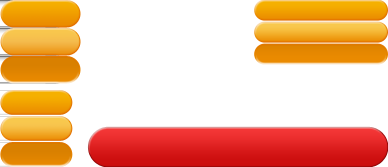
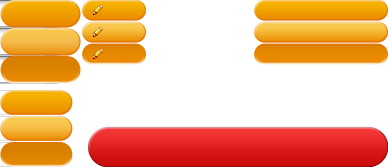
styling - edit buttons on journo page

Changed region(s): [[0.1856, 0.0, 0.4021, 0.3892]]

diff --git a/jl/web/style.css b/jl/web/style.css
@@ -50,6 +50,24 @@ ul.art-list li {
 abbr.published { text-decoration: none; border: none; }
 
 
+/* edit buttons */
+a.edit {
+  margin: 0px;
+  padding: 0px 0px 0px 26px;
+  display: inline-block;
+  height: 21px;
+  width: 38px;
+  background: url("/img/buttons.png") no-repeat -82px 0px;
+  overflow: hidden;
+  color: #1a1a1a;
+  line-height: 21px;
+}
+
+a.edit:hover
+  { background-position: -82px -22px; text-decoration: none; }
+a.edit:focus
+  { background-position: -82px -44px; }
+
 
 /* HEADER */
 
@@ -542,13 +560,29 @@ abbr.published { text-decoration: none; border: none; }
   padding: 0px 8px 0 8px;
 }
 
-.overview .picture {
+.overview .photo {
   float: left;
   margin-right: 20px;
-  -moz-box-shadow: 3px 3px 5px #888888;
-  -webkit-box-shadow: 3px 3px 5px #888888;
+}
+.overview .photo a.edit {
+  margin-top: 8px;
 }
 
+.overview .photo img {
+  -moz-box-shadow: 3px 3px 5px #888888;
+  -webkit-box-shadow: 3px 3px 5px #888888;
+  display: block;
+}
 
+/* bio tab on journo page */
+
+#tab-bio .head {
+  position: relative;
+}
+#tab-bio .head a.edit {
+  position: absolute;
+  top: 10px;
+  right: 0px;
+}
 
 

diff --git a/jl/templates/journo.tpl.php b/jl/templates/journo.tpl.php
@@ -138,13 +138,13 @@ foreach( $employers as $emp ) {
   <div class="head"><h2><a href="<?= $rssurl; ?>"><img src="/images/rss.gif" alt="RSS feed" border="0" align="right"></a><?= $prettyname; ?></h2></div>
   <div class="body">
 
-  <div class="picture">
+  <div class="photo">
 <?php if( $picture ) { ?>
     <img src="<?= $picture['url']; ?>" alt="photo" />
 <?php } else { ?>
     <img width="135" height="135" src="/img/rupe.png" alt="no photo" />
 <?php } ?>
-    <?php if( $can_edit_page ) { ?> <a class="edit" href="/profile_picture?ref=<?= $ref ?>">edit</a><?php } ?>
+  <?php if( $can_edit_page ) { ?> <a class="edit" href="/profile_picture?ref=<?= $ref ?>">edit</a><?php } ?>
   </div>
 
     <ul>
@@ -281,7 +281,10 @@ foreach( $employers as $emp ) {
 
 
 <div class="">
-  <div class="head"><h3>Experience</h3></div>
+  <div class="head">
+    <h3>Experience</h3>
+    <?php if( $can_edit_page ) { ?><a class="edit" href="/profile_employment?ref=<?= $ref ?>">edit</a><?php } ?>
+  </div>
   <div class="body">
     <ul>
 <?php foreach( $employers as $e ) { ?>
@@ -294,13 +297,15 @@ foreach( $employers as $emp ) {
  <?php } ?>
 <?php } ?>
     </ul>
-    <?php if( $can_edit_page ) { ?><a class="edit" href="/profile_employment?ref=<?= $ref ?>">edit</a><?php } ?>
   </div>
 </div>
 
 
 <div class="">
-  <div class="head"><h3>Education</h3></div>
+  <div class="head">
+    <h3>Education</h3>
+    <?php if( $can_edit_page ) { ?><a class="edit" href="/profile_education?ref=<?= $ref ?>">edit</a><?php } ?>
+  </div>
   <div class="body">
     <ul>
 <?php foreach( $education as $edu ) { ?>
@@ -311,33 +316,36 @@ foreach( $employers as $emp ) {
       </li>
 <?php } ?>
     </ul>
-    <?php if( $can_edit_page ) { ?><a class="edit" href="/profile_education?ref=<?= $ref ?>">edit</a><?php } ?>
   </div>
 </div>
 
 
 <div class="">
-  <div class="head"><h3>Books by <?= $prettyname ?></h3></div>
+  <div class="head">
+    <h3>Books by <?= $prettyname ?></h3>
+    <?php if( $can_edit_page ) { ?><a class="edit" href="/profile_education?ref=<?= $ref ?>">edit</a><?php } ?>
+  </div>
   <div class="body">
     <ul>
 <?php foreach( $books as $b ) { ?>
     <li><?= $b['title']; ?> (<?= $b['publisher']; ?>, <?= $b['year_published']; ?>)</li>
 <?php } ?>
     </ul>
-    <?php if( $can_edit_page ) { ?> <a class="edit" href="/profile_books?ref=<?= $ref ?>">edit</a><?php } ?>
   </div>
 </div>
 
 
 <div class="">
-  <div class="head"><h3>Awards Won</h3></div>
+  <div class="head">
+    <h3>Awards Won</h3>
+    <?php if( $can_edit_page ) { ?><a class="edit" href="/profile_education?ref=<?= $ref ?>">edit</a><?php } ?>
+  </div>
   <div class="body">
     <ul>
 <?php foreach( $awards as $a ) { ?>
     <li><?php if( $a['year'] ) { ?><?= $a['year'] ?>: <?php } ?><?= $a['award']; ?></li>
 <?php } ?>
     </ul>
-    <?php if( $can_edit_page ) { ?> <a class="edit" href="/profile_awards?ref=<?= $ref ?>">edit</a><?php } ?>
   </div>
 </div>
 
